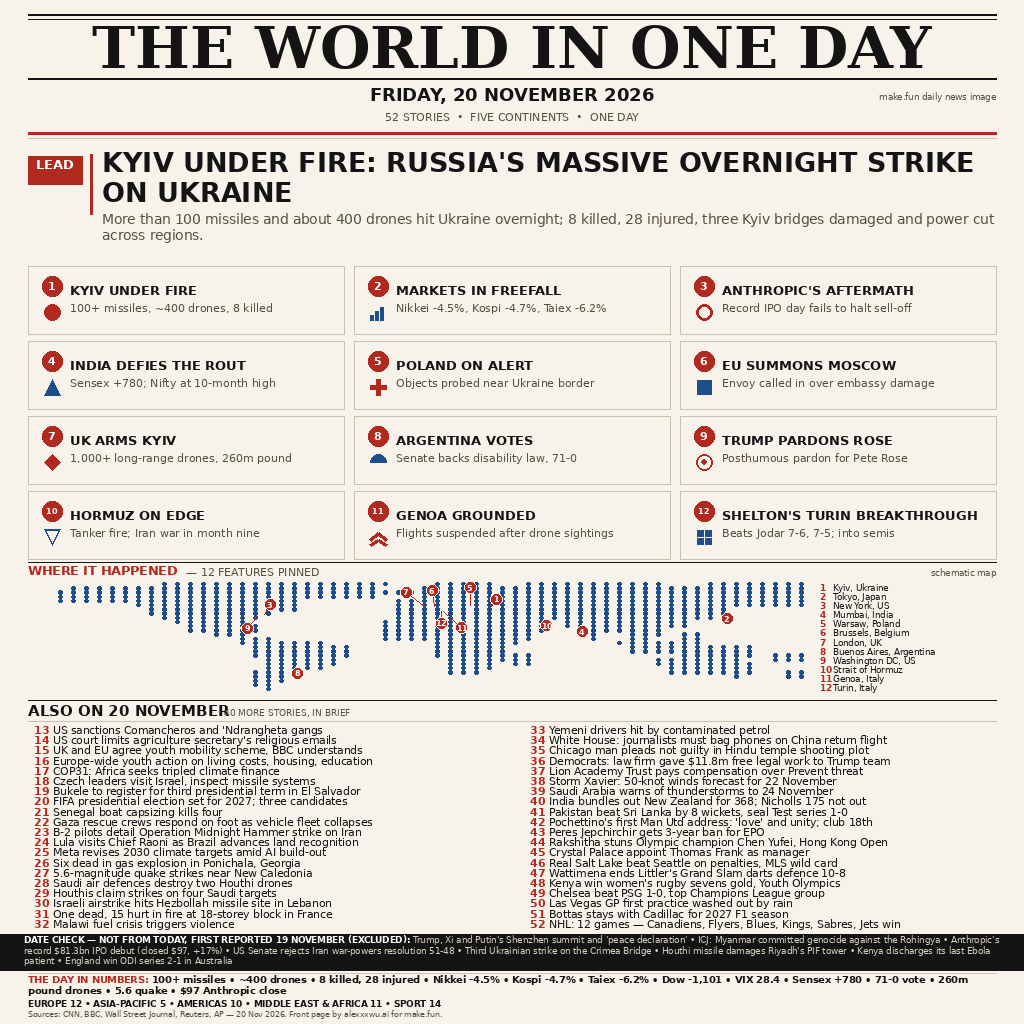
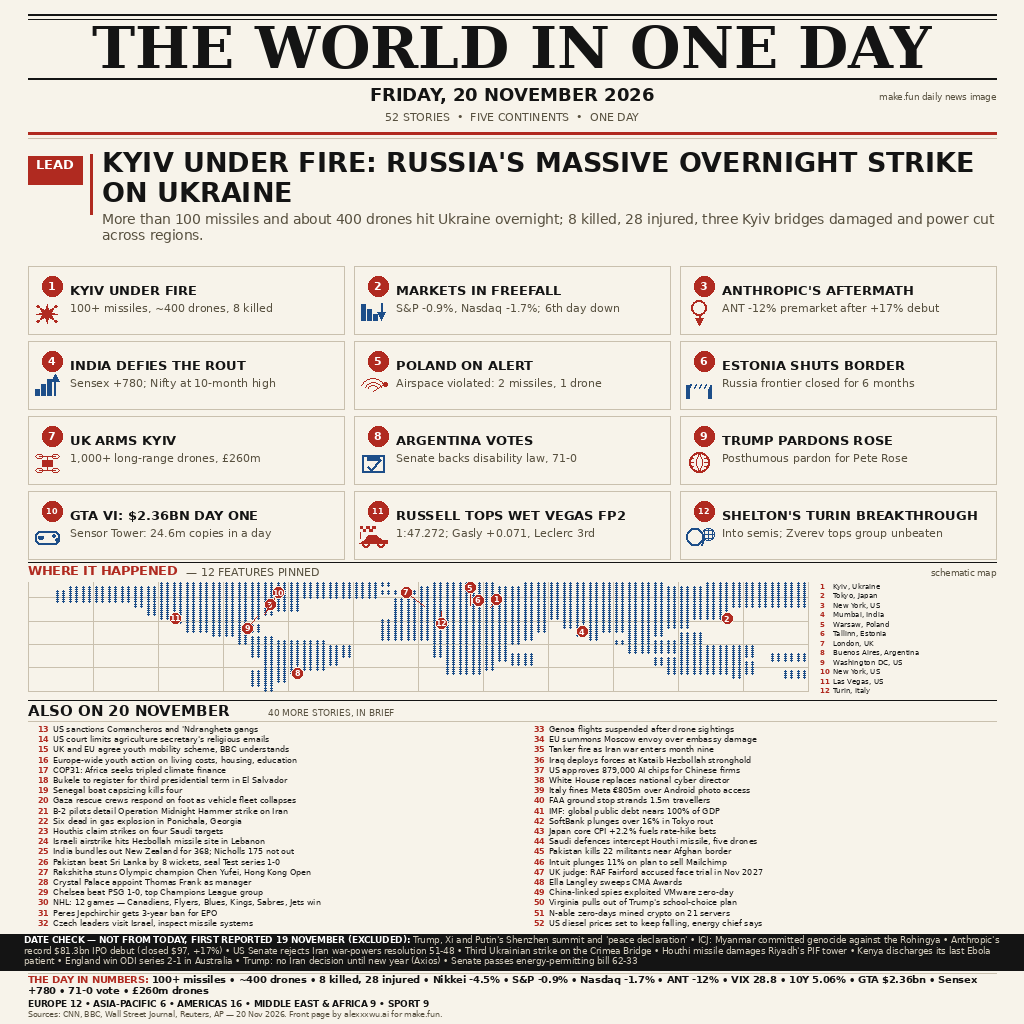
Refine front page layout: fix brief and map legend collisions
Densify the map's land mask into 2x2 sub-dots and draw a faint
graticule behind them. Fix overlapping lines in the briefs column
and the 12-item map legend so every line has clear separation, and
attach the racecar scene's checkered flag to its pole so it no longer
floats detached. Regenerate entry.png.

diff --git a/draw.py b/draw.py
@@ -6,6 +6,7 @@ copies the finished PNG. Fully deterministic: no randomness, no clock, no
 network, no external assets beyond the local DejaVu fonts.
 """
 
+import math
 import os
 
 from PIL import Image, ImageDraw, ImageFont
@@ -109,29 +110,29 @@ def flow(d, x0, y_top, maxw, line_h, segments, max_lines):
 
 FEATURES = [
     (1, "KYIV UNDER FIRE", "100+ missiles, ~400 drones, 8 killed",
-     "circle", RED, 50.4, 30.5, "Kyiv, Ukraine"),
-    (2, "MARKETS IN FREEFALL", "Nikkei -4.5%, Kospi -4.7%, Taiex -6.2%",
-     "bars", BLUE, 35.7, 139.7, "Tokyo, Japan"),
-    (3, "ANTHROPIC'S AFTERMATH", "Record IPO day fails to halt sell-off",
-     "ring", RED, 40.7, -74.0, "New York, US"),
+     "explosion", RED, 50.4, 30.5, "Kyiv, Ukraine"),
+    (2, "MARKETS IN FREEFALL", "S&P -0.9%, Nasdaq -1.7%; 6th day down",
+     "chart-down", BLUE, 35.7, 139.7, "Tokyo, Japan"),
+    (3, "ANTHROPIC'S AFTERMATH", "ANT -12% premarket after +17% debut",
+     "ring-down", RED, 40.7, -74.0, "New York, US"),
     (4, "INDIA DEFIES THE ROUT", "Sensex +780; Nifty at 10-month high",
-     "triangle", BLUE, 19.1, 72.9, "Mumbai, India"),
-    (5, "POLAND ON ALERT", "Objects probed near Ukraine border",
-     "cross", RED, 52.2, 21.0, "Warsaw, Poland"),
-    (6, "EU SUMMONS MOSCOW", "Envoy called in over embassy damage",
-     "square", BLUE, 50.8, 4.4, "Brussels, Belgium"),
-    (7, "UK ARMS KYIV", "1,000+ long-range drones, 260m pound",
-     "diamond", RED, 51.5, -0.1, "London, UK"),
+     "chart-up", BLUE, 19.1, 72.9, "Mumbai, India"),
+    (5, "POLAND ON ALERT", "Airspace violated: 2 missiles, 1 drone",
+     "radar", RED, 52.2, 21.0, "Warsaw, Poland"),
+    (6, "ESTONIA SHUTS BORDER", "Russia frontier closed for 6 months",
+     "gate", BLUE, 59.4, 24.7, "Tallinn, Estonia"),
+    (7, "UK ARMS KYIV", "1,000+ long-range drones, \u00a3260m",
+     "drone", RED, 51.5, -0.1, "London, UK"),
     (8, "ARGENTINA VOTES", "Senate backs disability law, 71-0",
-     "half", BLUE, -34.6, -58.4, "Buenos Aires, Argentina"),
+     "ballot", BLUE, -34.6, -58.4, "Buenos Aires, Argentina"),
     (9, "TRUMP PARDONS ROSE", "Posthumous pardon for Pete Rose",
-     "target", RED, 38.9, -77.0, "Washington DC, US"),
-    (10, "HORMUZ ON EDGE", "Tanker fire; Iran war in month nine",
-     "triangle_down", BLUE, 26.5, 56.5, "Strait of Hormuz"),
-    (11, "GENOA GROUNDED", "Flights suspended after drone sightings",
-     "chevron", RED, 44.4, 8.9, "Genoa, Italy"),
-    (12, "SHELTON'S TURIN BREAKTHROUGH", "Beats Jodar 7-6, 7-5; into semis",
-     "grid", BLUE, 45.1, 7.7, "Turin, Italy"),
+     "baseball", RED, 38.9, -77.0, "Washington DC, US"),
+    (10, "GTA VI: $2.36BN DAY ONE", "Sensor Tower: 24.6m copies in a day",
+     "controller", BLUE, 40.7, -74.0, "New York, US"),
+    (11, "RUSSELL TOPS WET VEGAS FP2", "1:47.272; Gasly +0.071, Leclerc 3rd",
+     "racecar", RED, 36.2, -115.1, "Las Vegas, US"),
+    (12, "SHELTON'S TURIN BREAKTHROUGH", "Into semis; Zverev tops group unbeaten",
+     "tennis", BLUE, 45.1, 7.7, "Turin, Italy"),
 ]
 
 BRIEFS = [
@@ -140,41 +141,41 @@ BRIEFS = [
     "UK and EU agree youth mobility scheme, BBC understands",
     "Europe-wide youth action on living costs, housing, education",
     "COP31: Africa seeks tripled climate finance",
-    "Czech leaders visit Israel, inspect missile systems",
     "Bukele to register for third presidential term in El Salvador",
-    "FIFA presidential election set for 2027; three candidates",
     "Senegal boat capsizing kills four",
     "Gaza rescue crews respond on foot as vehicle fleet collapses",
     "B-2 pilots detail Operation Midnight Hammer strike on Iran",
-    "Lula visits Chief Raoni as Brazil advances land recognition",
-    "Meta revises 2030 climate targets amid AI build-out",
     "Six dead in gas explosion in Ponichala, Georgia",
-    "5.6-magnitude quake strikes near New Caledonia",
-    "Saudi air defences destroy two Houthi drones",
     "Houthis claim strikes on four Saudi targets",
     "Israeli airstrike hits Hezbollah missile site in Lebanon",
-    "One dead, 15 hurt in fire at 18-storey block in France",
-    "Malawi fuel crisis triggers violence",
-    "Yemeni drivers hit by contaminated petrol",
-    "White House: journalists must bag phones on China return flight",
-    "Chicago man pleads not guilty in Hindu temple shooting plot",
-    "Democrats: law firm gave $11.8m free legal work to Trump team",
-    "Lion Academy Trust pays compensation over Prevent threat",
-    "Storm Xavier: 50-knot winds forecast for 22 November",
-    "Saudi Arabia warns of thunderstorms to 24 November",
     "India bundles out New Zealand for 368; Nicholls 175 not out",
     "Pakistan beat Sri Lanka by 8 wickets, seal Test series 1-0",
-    "Pochettino's first Man Utd address: 'love' and unity; club 18th",
-    "Peres Jepchirchir gets 3-year ban for EPO",
     "Rakshitha stuns Olympic champion Chen Yufei, Hong Kong Open",
     "Crystal Palace appoint Thomas Frank as manager",
-    "Real Salt Lake beat Seattle on penalties, MLS wild card",
-    "Wattimena ends Littler's Grand Slam darts defence 10-8",
-    "Kenya win women's rugby sevens gold, Youth Olympics",
     "Chelsea beat PSG 1-0, top Champions League group",
-    "Las Vegas GP first practice washed out by rain",
-    "Bottas stays with Cadillac for 2027 F1 season",
     "NHL: 12 games \u2014 Canadiens, Flyers, Blues, Kings, Sabres, Jets win",
+    "Peres Jepchirchir gets 3-year ban for EPO",
+    "Czech leaders visit Israel, inspect missile systems",
+    "Genoa flights suspended after drone sightings",
+    "EU summons Moscow envoy over embassy damage",
+    "Tanker fire as Iran war enters month nine",
+    "Iraq deploys forces at Kataib Hezbollah stronghold",
+    "US approves 879,000 AI chips for Chinese firms",
+    "White House replaces national cyber director",
+    "Italy fines Meta \u20ac805m over Android photo access",
+    "FAA ground stop strands 1.5m travellers",
+    "IMF: global public debt nears 100% of GDP",
+    "SoftBank plunges over 16% in Tokyo rout",
+    "Japan core CPI +2.2% fuels rate-hike bets",
+    "Saudi defences intercept Houthi missile, five drones",
+    "Pakistan kills 22 militants near Afghan border",
+    "Intuit plunges 11% on plan to sell Mailchimp",
+    "UK judge: RAF Fairford accused face trial in Nov 2027",
+    "Ella Langley sweeps CMA Awards",
+    "China-linked spies exploited VMware zero-day",
+    "Virginia pulls out of Trump's school-choice plan",
+    "N-able zero-days mined crypto on 21 servers",
+    "US diesel prices set to keep falling, energy chief says",
 ]
 
 EXCLUDED = [
@@ -186,15 +187,19 @@ EXCLUDED = [
     "Houthi missile damages Riyadh's PIF tower",
     "Kenya discharges its last Ebola patient",
     "England win ODI series 2-1 in Australia",
+    "Trump: no Iran decision until new year (Axios)",
+    "Senate passes energy-permitting bill 62-33",
 ]
 
 NUMBERS = ("100+ missiles \u2022 ~400 drones \u2022 8 killed, 28 injured \u2022 "
-           "Nikkei -4.5% \u2022 Kospi -4.7% \u2022 Taiex -6.2% \u2022 Dow -1,101 \u2022 "
-           "VIX 28.4 \u2022 Sensex +780 \u2022 71-0 vote \u2022 260m pound drones \u2022 "
-           "5.6 quake \u2022 $97 Anthropic close")
+           "Nikkei -4.5% \u2022 S&P -0.9% \u2022 Nasdaq -1.7% \u2022 ANT -12% \u2022 "
+           "VIX 28.8 \u2022 10Y 5.06% \u2022 GTA $2.36bn \u2022 Sensex +780 \u2022 "
+           "71-0 vote \u2022 \u00a3260m drones")
 
-REGIONS = ("EUROPE 12 \u2022 ASIA-PACIFIC 5 \u2022 AMERICAS 10 \u2022 "
-           "MIDDLE EAST & AFRICA 11 \u2022 SPORT 14")
+REGIONS = ("EUROPE 12 \u2022 ASIA-PACIFIC 6 \u2022 AMERICAS 16 \u2022 "
+           "MIDDLE EAST & AFRICA 9 \u2022 SPORT 9")
+
+assert len(FEATURES) + len(BRIEFS) == 52
 
 SOURCES = ("Sources: CNN, BBC, Wall Street Journal, Reuters, AP \u2014 20 Nov 2026. "
            "Front page by alexxxwu.ai for make.fun.")
@@ -231,8 +236,8 @@ MAP = [
 
 PIN_OFFSET = {
     1: (6, -8), 2: (0, 0), 3: (6, -10), 4: (0, 0), 5: (0, -18),
-    6: (-2, -16), 7: (-18, -14), 8: (0, 0), 9: (-10, 12), 10: (0, 0),
-    11: (18, 16), 12: (0, 12),
+    6: (0, 0), 7: (-18, -14), 8: (0, 0), 9: (-10, 12), 10: (14, -22),
+    11: (0, 0), 12: (0, 12),
 }
 
 MAP_X0, MAP_Y0 = 28.0, 582.0
@@ -246,44 +251,121 @@ def geo(lat, lon):
     return (MAP_X0 + (col + 0.5) * CELL_W, MAP_Y0 + (row + 0.5) * CELL_H)
 
 
-# ------------------------------------------------------------------ icons ---
+# ----------------------------------------------------------------- scenes ---
 
-def icon(d, key, cx, cy, color, s=16):
-    h = s / 2.0
-    box = [cx - h, cy - h, cx + h, cy + h]
-    if key == "circle":
-        d.ellipse(box, fill=color)
-    elif key == "ring":
-        d.ellipse(box, outline=color, width=3)
-    elif key == "triangle":
-        d.polygon([(cx, cy - h), (cx + h, cy + h), (cx - h, cy + h)], fill=color)
-    elif key == "triangle_down":
-        d.polygon([(cx, cy + h), (cx + h, cy - h), (cx - h, cy - h)],
+def scene(d, key, x, y, w, h, color):
+    cx, cy = x + w / 2.0, y + h / 2.0
+    if key == "explosion":
+        ox, oy = cx, cy + 2
+        pts = []
+        for i in range(16):
+            a = i * math.pi / 8.0 - math.pi / 2.0
+            r = 10.5 if i % 2 == 0 else 4.6
+            pts.append((ox + r * math.cos(a), oy + r * 0.92 * math.sin(a)))
+        d.polygon(pts, fill=color)
+        for i in range(4):
+            a = i * math.pi / 2.0 + math.pi / 4.0
+            dx, dy = ox + 12.6 * math.cos(a), oy + 11.0 * math.sin(a)
+            d.ellipse([dx - 1.2, dy - 1.2, dx + 1.2, dy + 1.2], fill=color)
+    elif key in ("chart-down", "chart-up"):
+        base = y + h - 6
+        heights = (6, 11, 16) if key == "chart-up" else (16, 11, 6)
+        for i, bh in enumerate(heights):
+            bx = x + 5 + i * 6
+            d.rectangle([bx, base - bh, bx + 4, base], fill=color)
+        ax = x + w - 9
+        if key == "chart-down":
+            d.line([(ax, y + 5), (ax, base - 4)], fill=color, width=2)
+            d.polygon([(ax - 4, base - 8), (ax + 4, base - 8), (ax, base)],
+                      fill=color)
+        else:
+            d.line([(ax, base), (ax, y + 9)], fill=color, width=2)
+            d.polygon([(ax - 4, y + 8), (ax + 4, y + 8), (ax, y + 1)],
+                      fill=color)
+    elif key == "ring-down":
+        r = 7.5
+        d.ellipse([cx - r, y + 2, cx + r, y + 2 + 2 * r],
                   outline=color, width=2)
-    elif key == "square":
-        d.rectangle([cx - h + 1, cy - h + 1, cx + h - 1, cy + h - 1], fill=color)
-    elif key == "diamond":
-        d.polygon([(cx, cy - h), (cx + h, cy), (cx, cy + h), (cx - h, cy)], fill=color)
-    elif key == "bars":
-        for i, bh in enumerate((5, 9, 13)):
-            x = cx - h + i * 5
-            d.rectangle([x, cy + h - bh, x + 3, cy + h], fill=color)
-    elif key == "cross":
-        d.rectangle([cx - 2, cy - h, cx + 2, cy + h], fill=color)
-        d.rectangle([cx - h, cy - 2, cx + h, cy + 2], fill=color)
-    elif key == "target":
-        d.ellipse(box, outline=color, width=2)
-        d.ellipse([cx - 2.5, cy - 2.5, cx + 2.5, cy + 2.5], fill=color)
-    elif key == "half":
-        d.pieslice(box, 180, 360, fill=color)
-    elif key == "chevron":
-        d.line([(cx - h, cy + 3), (cx, cy - 4), (cx + h, cy + 3)], fill=color, width=3)
-        d.line([(cx - h, cy + h), (cx, cy + 3), (cx + h, cy + h)], fill=color, width=3)
-    elif key == "grid":
-        for dx in (-1, 1):
-            for dy in (-1, 1):
-                d.rectangle([cx + dx * 4 - 3, cy + dy * 4 - 3,
-                             cx + dx * 4 + 3, cy + dy * 4 + 3], fill=color)
+        d.line([(cx, y + 17), (cx, y + 21)], fill=color, width=2)
+        d.polygon([(cx - 4, y + 20), (cx + 4, y + 20), (cx, y + 27)],
+                  fill=color)
+    elif key == "radar":
+        ry = cy + 4
+        for r in (5.5, 9.0, 12.5):
+            d.arc([cx - r, ry - r, cx + r, ry + r], 205, 335,
+                  fill=color, width=1)
+        d.line([(cx, ry), (cx + 9, ry - 6)], fill=color, width=1)
+        d.ellipse([cx + 10, ry - 9, cx + 14, ry - 5], fill=color)
+    elif key == "gate":
+        d.rectangle([x + 4, cy - 2, x + 7, y + h - 3], fill=color)
+        d.rectangle([x + w - 8, cy - 2, x + w - 5, y + h - 3], fill=color)
+        d.rectangle([x + 8, cy - 3, x + w - 9, cy + 1], fill=color)
+        for i in range(4):
+            sx = x + 10 + i * 5
+            d.polygon([(sx, cy - 3), (sx + 3, cy - 3), (sx + 1, cy + 1),
+                       (sx - 2, cy + 1)], fill=BG)
+    elif key == "drone":
+        d.rectangle([cx - 5, cy - 2, cx + 5, cy + 4], fill=color)
+        d.line([(cx - 8, cy - 6), (cx + 8, cy - 6)], fill=color, width=1)
+        d.line([(cx - 8, cy + 8), (cx + 8, cy + 8)], fill=color, width=1)
+        for sx, sy in ((cx - 8, cy - 6), (cx + 8, cy - 6),
+                       (cx - 8, cy + 8), (cx + 8, cy + 8)):
+            d.ellipse([sx - 4, sy - 2, sx + 4, sy + 2], outline=color, width=1)
+        d.line([(cx, cy - 2), (cx, cy - 6)], fill=color, width=1)
+        d.line([(cx, cy + 4), (cx, cy + 8)], fill=color, width=1)
+    elif key == "ballot":
+        d.rectangle([cx - 11, cy - 7, cx + 11, cy + 10], outline=color, width=2)
+        d.rectangle([cx - 6, cy - 5, cx + 6, cy - 2], fill=color)
+        d.line([(cx - 6, cy + 4), (cx - 2, cy + 8), (cx + 8, cy - 3)],
+               fill=color, width=2)
+    elif key == "baseball":
+        r = 10.0
+        d.ellipse([cx - r, cy - r, cx + r, cy + r], outline=color, width=2)
+        d.arc([cx - r - 4, cy - r, cx + 3, cy + r], 300, 60, fill=color, width=1)
+        d.arc([cx - 3, cy - r, cx + r + 4, cy + r], 120, 240, fill=color, width=1)
+        for i in range(3):
+            t = -0.5 + i * 0.5
+            d.line([(cx - r * 0.85, cy + t * r * 0.8),
+                    (cx - r * 0.55, cy + t * r * 0.8)], fill=color, width=1)
+            d.line([(cx + r * 0.55, cy + t * r * 0.8),
+                    (cx + r * 0.85, cy + t * r * 0.8)], fill=color, width=1)
+    elif key == "controller":
+        d.rounded_rectangle([cx - 12, cy - 6, cx + 12, cy + 7], radius=5,
+                            outline=color, width=2)
+        d.rectangle([cx - 8, cy - 1, cx - 5, cy + 2], fill=color)
+        d.rectangle([cx - 9, cy - 0.5, cx - 4, cy + 1.5], fill=color)
+        d.ellipse([cx + 5, cy - 3, cx + 8, cy], fill=color)
+        d.ellipse([cx + 8, cy + 1, cx + 11, cy + 4], fill=color)
+    elif key == "racecar":
+        d.polygon([(x + 3, cy + 6), (x + 8, cy + 3), (x + 12, cy - 2),
+                   (x + 20, cy - 2), (x + 25, cy + 2), (x + 31, cy + 3),
+                   (x + 31, cy + 6)], fill=color)
+        d.ellipse([x + 6, cy + 3, x + 13, cy + 10], outline=color, width=2)
+        d.ellipse([x + 21, cy + 3, x + 28, cy + 10], outline=color, width=2)
+        d.line([(x + 4, y + 9), (x + 4, cy + 1)], fill=color, width=1)
+        for i in range(5):
+            for j in range(2):
+                sx = x + 4 + i * 3.2
+                sy = y + 3 + j * 3.2
+                if (i + j) % 2 == 0:
+                    d.rectangle([sx, sy, sx + 2.6, sy + 2.6], fill=color)
+    elif key == "tennis":
+        r = 8.5
+        bx = cx - 4
+        d.ellipse([bx - r, cy - r, bx + r, cy + r], outline=color, width=2)
+        d.arc([bx - r - 2, cy - r, bx + r, cy + r], 250, 110,
+              fill=color, width=1)
+        d.arc([bx - r, cy - r, bx + r + 2, cy + r], 70, 290,
+              fill=color, width=1)
+        hx, hy = cx + 9, cy - 3
+        d.ellipse([hx - 6, hy - 6, hx + 6, hy + 6], outline=color, width=1)
+        for i in range(3):
+            d.line([(hx - 4 + i * 4, hy - 5), (hx - 4 + i * 4, hy + 5)],
+                   fill=color, width=1)
+        for i in range(3):
+            d.line([(hx - 5, hy - 4 + i * 4), (hx + 5, hy - 4 + i * 4)],
+                   fill=color, width=1)
+        d.line([(hx - 5, hy + 5), (hx - 7, hy + 11)], fill=color, width=2)
     else:
         raise ValueError(key)
 
@@ -363,7 +445,7 @@ def main():
         d.text((x + 24, y + 20), str(num), font=bf8 if num > 9 else bf,
                fill="#ffffff", anchor="mm")
 
-        icon(d, ic, x + 24, y + 46, color, 16)
+        scene(d, ic, x + 2, y + 32, 34, 28, color)
 
         tx = x + 42
         tw = CARD_W - 42 - 9
@@ -383,13 +465,26 @@ def main():
     text(d, M + 158, 568, "\u2014 12 FEATURES PINNED", font(11), DIM)
     text(d, W - M, 569, "schematic map", font(8.5), DIM, "right")
 
-    dot_r = 1.7
+    # graticule behind the dots
+    map_w = len(MAP[0]) * CELL_W
+    map_h = len(MAP) * CELL_H
+    for lon in range(-180, 181, 30):
+        gx = MAP_X0 + ((lon + 180.0) / 6.0) * CELL_W
+        d.line([(gx, MAP_Y0), (gx, MAP_Y0 + map_h)], fill=LIGHT, width=1)
+    for lat in range(-60, 81, 30):
+        gy = MAP_Y0 + ((LAT_TOP - lat) * len(MAP) / (LAT_TOP - LAT_BOT)) * CELL_H
+        d.line([(MAP_X0, gy), (MAP_X0 + map_w, gy)], fill=LIGHT, width=1)
+
+    dot_r = 1.0
     for r, row in enumerate(MAP):
         for c, ch in enumerate(row):
             if ch == "#":
-                cx = MAP_X0 + (c + 0.5) * CELL_W
-                cy = MAP_Y0 + (r + 0.5) * CELL_H
-                d.ellipse([cx - dot_r, cy - dot_r, cx + dot_r, cy + dot_r], fill=BLUE)
+                for sy in (0.25, 0.75):
+                    for sx in (0.25, 0.75):
+                        cx = MAP_X0 + (c + sx) * CELL_W
+                        cy = MAP_Y0 + (r + sy) * CELL_H
+                        d.ellipse([cx - dot_r, cy - dot_r,
+                                   cx + dot_r, cy + dot_r], fill=BLUE)
 
     pins = []
     for num, head, deck, ic, color, lat, lon, label in FEATURES:
@@ -411,10 +506,10 @@ def main():
 
     lx = 820
     text(d, lx, 566, "", font(9))
-    lf = font(8.5)
-    nf = font(8.5, bold=True)
+    lf = font(7.2)
+    nf = font(7.2, bold=True)
     for i, (num, head, deck, ic, color, lat, lon, label) in enumerate(FEATURES):
-        y = 584 + i * 9.1
+        y = 584 + i * 9.5
         d.text((lx, y - asc(lf)), str(num), font=nf, fill=RED)
         d.text((lx + 13, y - asc(lf)), label, font=lf, fill=INK)
         assert lx + 13 + lf.getlength(label) <= W - M
@@ -422,12 +517,12 @@ def main():
     # ---- briefs -------------------------------------------------------
     d.rectangle([M, 700, W - M, 700], fill=INK)
     text(d, M, 705, "ALSO ON 20 NOVEMBER", font(15, bold=True), INK)
-    text(d, M + 196, 709, "40 MORE STORIES, IN BRIEF", font(9), DIM)
+    text(d, M + 240, 709, "40 MORE STORIES, IN BRIEF", font(9), DIM)
     d.rectangle([M, 721, W - M, 721], fill=LIGHT)
 
     col_w = (CW - 24) / 2.0
-    brf = font(10.5)
-    bnf = font(10.5, bold=True)
+    brf = font(8.0)
+    bnf = font(8.0, bold=True)
     top = 726
     lh = 10.2
     for i, brief in enumerate(BRIEFS):
